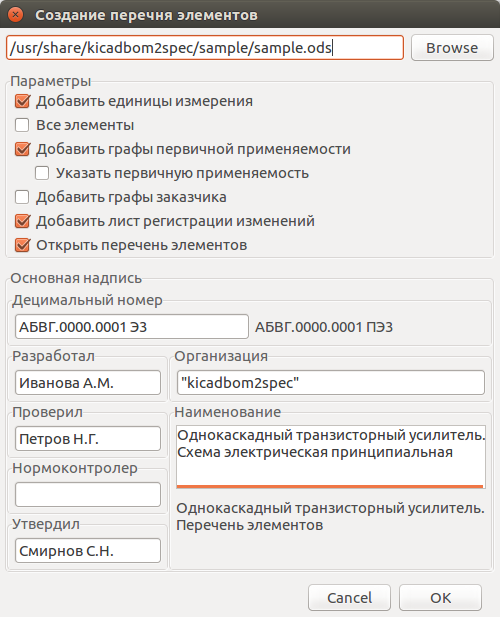
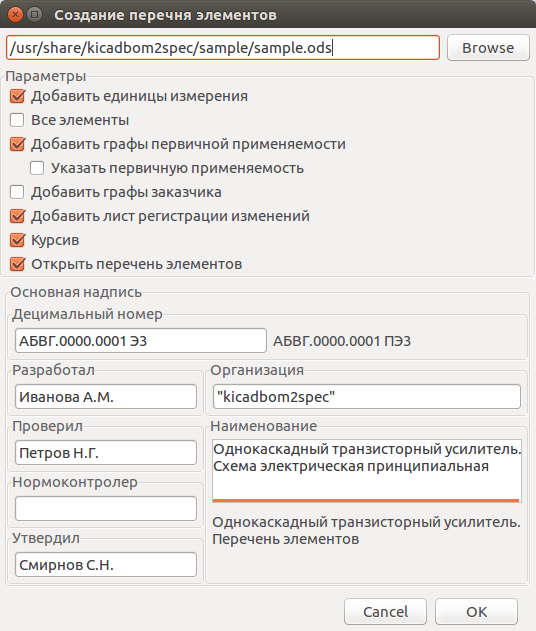
Update user manual for new italic/regular font option.

Changed region(s): [[0.0, 0.0, 0.99, 1.0], [0.96, 0.6159, 0.99, 0.6467]]

diff --git a/doc/user_manual.html b/doc/user_manual.html
@@ -513,7 +513,7 @@ body.book #toc,body.book #preamble,body.book h1.sect0,body.book .sect1>h2{page-b
 <p>Руководство пользователя</p>
 </div>
 <div class="paragraph">
-<p>Версия 3.13</p>
+<p>Версия 3.14</p>
 </div>
 </div>
 </div>
@@ -626,9 +626,9 @@ body.book #toc,body.book #preamble,body.book h1.sect0,body.book .sect1>h2{page-b
 стол"</em>. Имя файла перечня элементов оставить без изменений&#8201;&#8212;&#8201;<em>"sample.ods"</em>.</p>
 </div>
 <div class="paragraph">
-<p>Из параметров нужно оставить отметку только для опции <em>Добавить единицы
-измерения</em> и завершить создание перечня нажав кнопку <em>Ок</em>. После завершения
-генерации перечня элементов будет показано сообщение:</p>
+<p>Из параметров нужно оставить отметки только для опций <em>Добавить единицы
+измерения</em>, <em>Курсив</em> и завершить создание перечня нажав кнопку <em>Ок</em>. После
+завершения генерации перечня элементов будет показано сообщение:</p>
 </div>
 <div class="imageblock">
 <div class="content">
@@ -1142,7 +1142,7 @@ body.book #toc,body.book #preamble,body.book h1.sect0,body.book .sect1>h2{page-b
 <div class="title">Примечание</div>
 </td>
 <td class="content">
-Операции <em>копировать</em>, <em>вырезать</em> и <em>вставить</em> оперируют с
+Операции <em>копировать</em>, <em>вырезать</em> и <em>вставить</em> взаимодействуют с
 системным буфером обмена.
 </td>
 </tr>
@@ -1205,7 +1205,7 @@ body.book #toc,body.book #preamble,body.book h1.sect0,body.book .sect1>h2{page-b
 <div class="ulist">
 <ul>
 <li>
-<p><em>Вверху</em> отображается <strong>обозначение</strong> компонента. Если компонент расположен
+<p><em>Сверху</em> отображается <strong>обозначение</strong> компонента. Если компонент расположен
 на нескольких листах, то он имеет несколько обозначений, и в таких случаях
 все обозначения указываются через запятую (такое возможно при назначении
 одного и того же файла схемы нескольким иерархическим листам, см.
@@ -1214,12 +1214,13 @@ body.book #toc,body.book #preamble,body.book h1.sect0,body.book .sect1>h2{page-b
 </li>
 <li>
 <p><em>По-центру</em> отображается <strong>таблица</strong> полей компонента. Она состоит из трёх
-колонок: номер, название и значение поля. Поля нумеруются начиная с нуля.
-Любой компонент имеет как минимум четыре поля <em>Обозначение</em>, <em>Значение</em>,
-<em>Поса.место</em> и <em>Документация</em>, остальные поля&#8201;&#8212;&#8201;пользовательские.</p>
+колонок: номер, название и значение поля. Поля нумеруются начиная с нуля (как
+и в файле схемы). Любой компонент имеет как минимум четыре поля
+<em>Обозначение</em>, <em>Значение</em>, <em>Поса.место</em> и <em>Документация</em>, остальные
+поля&#8201;&#8212;&#8201;пользовательские.</p>
 </li>
 <li>
-<p><em>Внизу</em> отображается <strong>имя файла</strong>, в котором содержится текущий компонент.
+<p><em>Снизу</em> отображается <strong>имя файла</strong>, в котором содержится текущий компонент.
 Это может быть полезным при работе с иерархическими схемами.</p>
 </li>
 </ul>
@@ -1820,6 +1821,11 @@ Unicode, поэтому там используются символы <strong>&
 то в конец перечня элементов будет добавлен лист регистрации изменений.</p>
 </li>
 <li>
+<p><strong><em>Курсив</em></strong>&#8201;&#8212;&#8201;если этот параметр активен, то при формировании перечня
+элементов будет использован курсив. В противном случае, будет использоваться
+прямой шрифт.</p>
+</li>
+<li>
 <p><strong><em>Открыть перечень элементов</em></strong>&#8201;&#8212;&#8201;если этот параметр установлен, то по
 завершении будет открыт созданный перечень элементов в редакторе по умолчанию
 (например, в <strong>LibreOffice</strong>).</p>
@@ -2326,7 +2332,7 @@ Unicode, поэтому там используются символы <strong>&
 </div>
 <div id="footer">
 <div id="footer-text">
-Редакция от 2017-12-08 23:09:55 EET
+Редакция от 2018-03-10 11:40:19 EET
 </div>
 </div>
 </body>
